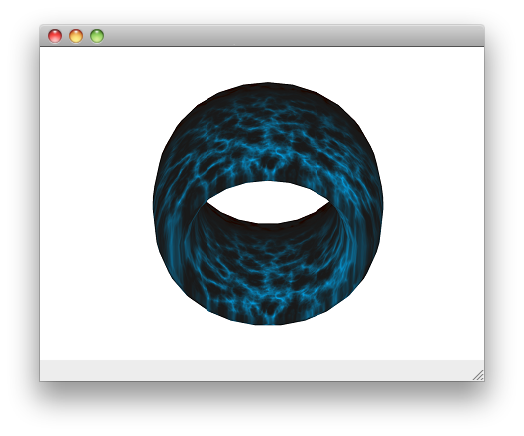
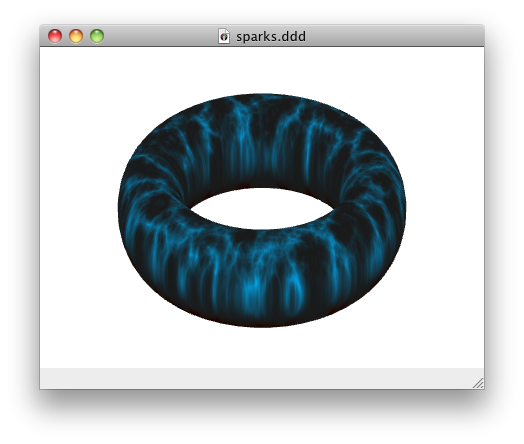
Translate documentation of Sparks module into french. Update example.

Changed region(s): [[0.2137, 0.1789, 0.7939, 0.7454], [0.0916, 0.0596, 0.916, 0.1193], [0.0916, 0.8349, 0.9466, 0.8945]]

diff --git a/sparks/doc/sparks.doxy.h b/sparks/doc/sparks.doxy.h
@@ -1,31 +1,89 @@
 /**
+ * @~english
  * @taomoduledescription{Sparks, Sparks}
  *
  * Generate a changing picture with some sparks.
  *
  * This module allows you to create a changing picture with some sparks.
  * This effect is adapted from a shader written by Ashima Arts and Stefan Gustavson.
+ * Used with permission.
  *
  * The following code shows an example of this module.
- * @include sparks.ddd
  *
- * @image html sparks.png "Output from sparks.ddd"
+ * @code
+import Sparks
+
+sparks_effect ->
+    ww -> window_width
+    texture ""
+    // Sparks color
+    color 0.0, 0.7, 1.0, 1.0
+    // Background color
+    sparks_color 0.1, 0.1, 0.1, 1.0
+    // Enable sparks effect
+    sparks page_time * 0.3, 1000, 1000
+    // Draw shape
+    rotatex page_time * 20
+    torus 0, 0, 0, ww, ww, ww / 2, 50, 50, 0.3
+
+sparks_effect
+ * @endcode
+ *
+ * @image html sparks.png "Sparks effect"
+ *
+ * @~french
+ * @taomoduledescription{Sparks, Effet éclairs}
+ *
+ * Un <em>fragment shader</em> GLSL qui affiche des éclairs.
+ * Adapté d'un @a shader écrit par Ashima Arts et Stefan Gustavson.
+ *
+ * Voici un exemple.
+ *
+ * @code
+import Sparks
+
+effet_éclairs ->
+    ww -> window_width
+    texture ""
+    // Couleur des éclairs
+    color 0.0, 0.7, 1.0, 1.0
+    // Couleur du fond
+    sparks_color 0.1, 0.1, 0.1, 1.0
+    // Activation de l'effet
+    sparks page_time * 0.3, 1000, 1000
+    // Dessin d'un tore
+    rotatex page_time * 20
+    torus 0, 0, 0, ww, ww, ww / 2, 50, 50, 0.3
+
+effet_éclairs
+ * @endcode
+ *
+ * @image html sparks.png "Effet éclairs"
+ * @~
  *
  * @endtaomoduledescription{Sparks}
  * @{
  */
 
 /**
- * Sets the font color of the picture.
- *
- * Specify the font color (@p r, @p g, @p b, @p a) of the picture.
+ * @~english
+ * Sets the backround color of the picture.
+ * @~french
+ * Définit la couleur de fond de l'image.
  */
 sparks_color(r:real, g:real, b:real, a:real);
 
 /**
- * Applies sparks effect
- *
- * Draw the changing picture with a time @p t and a scaling (@p sx, @p sy).
+ * @~english
+ * Applies sparks effect.
+ * The picture changes slowly as the value of @p t changes. Typically, use
+ * @ref time or @ref page_time for this parameter.
+ * (@p sx, @p sy) are scaling factors ; try 1000.
+ * @~french
+ * Active l'effet éclairs.
+ * L'image change pour chaque valeur de @p t. Vous pouvez utiliser @ref time
+ * ou @ref page_time pour ce paramètre.
+ * (@p sx, @p sy) sont des facteurs de dimension ; essayez 1000.
  */
 sparks(t:real, sx:real, sy:real);
 
